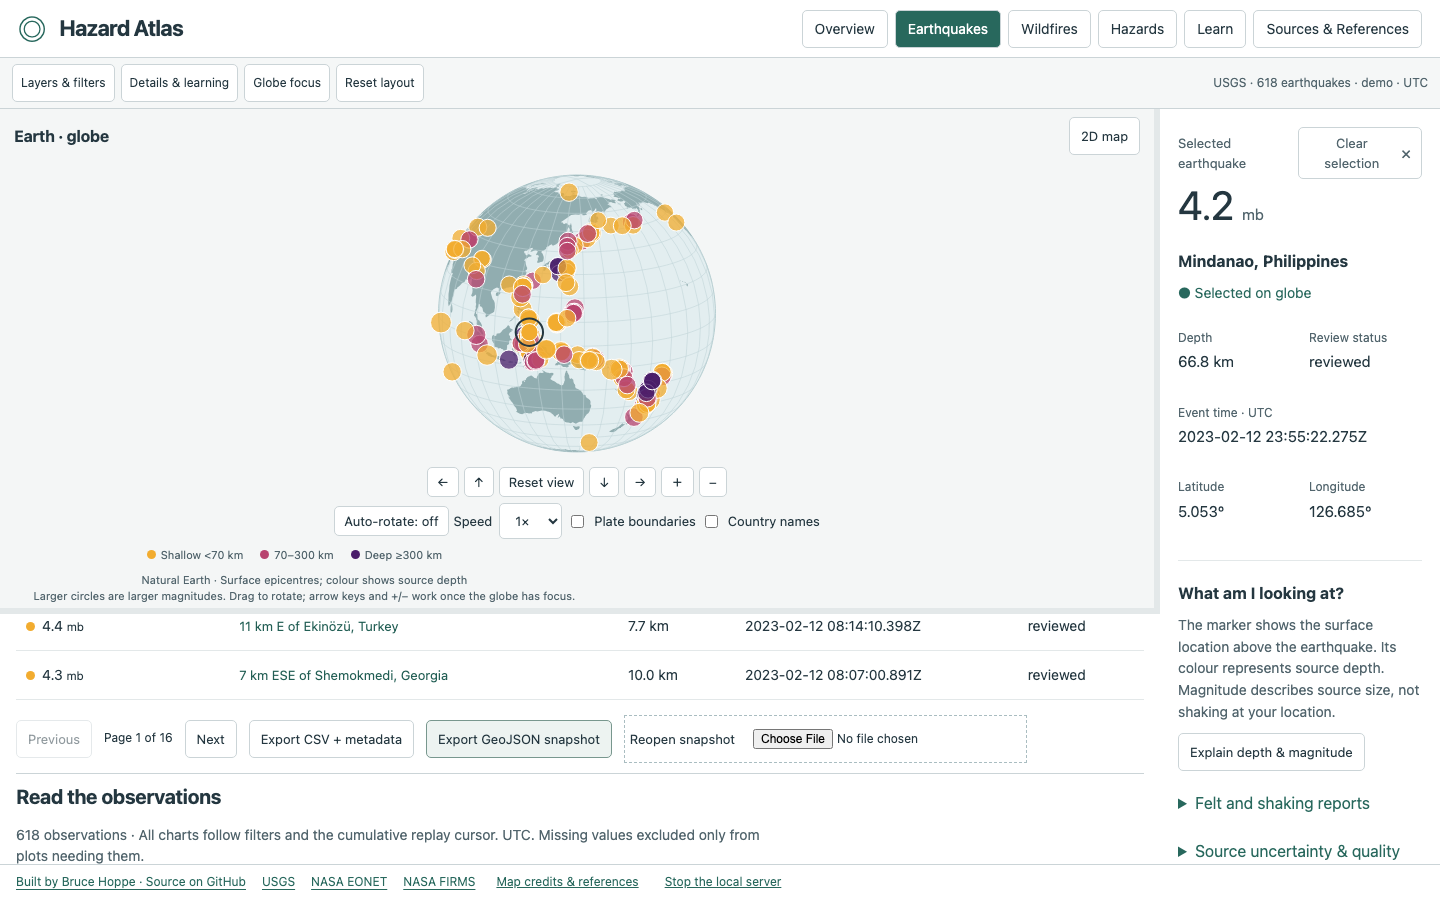
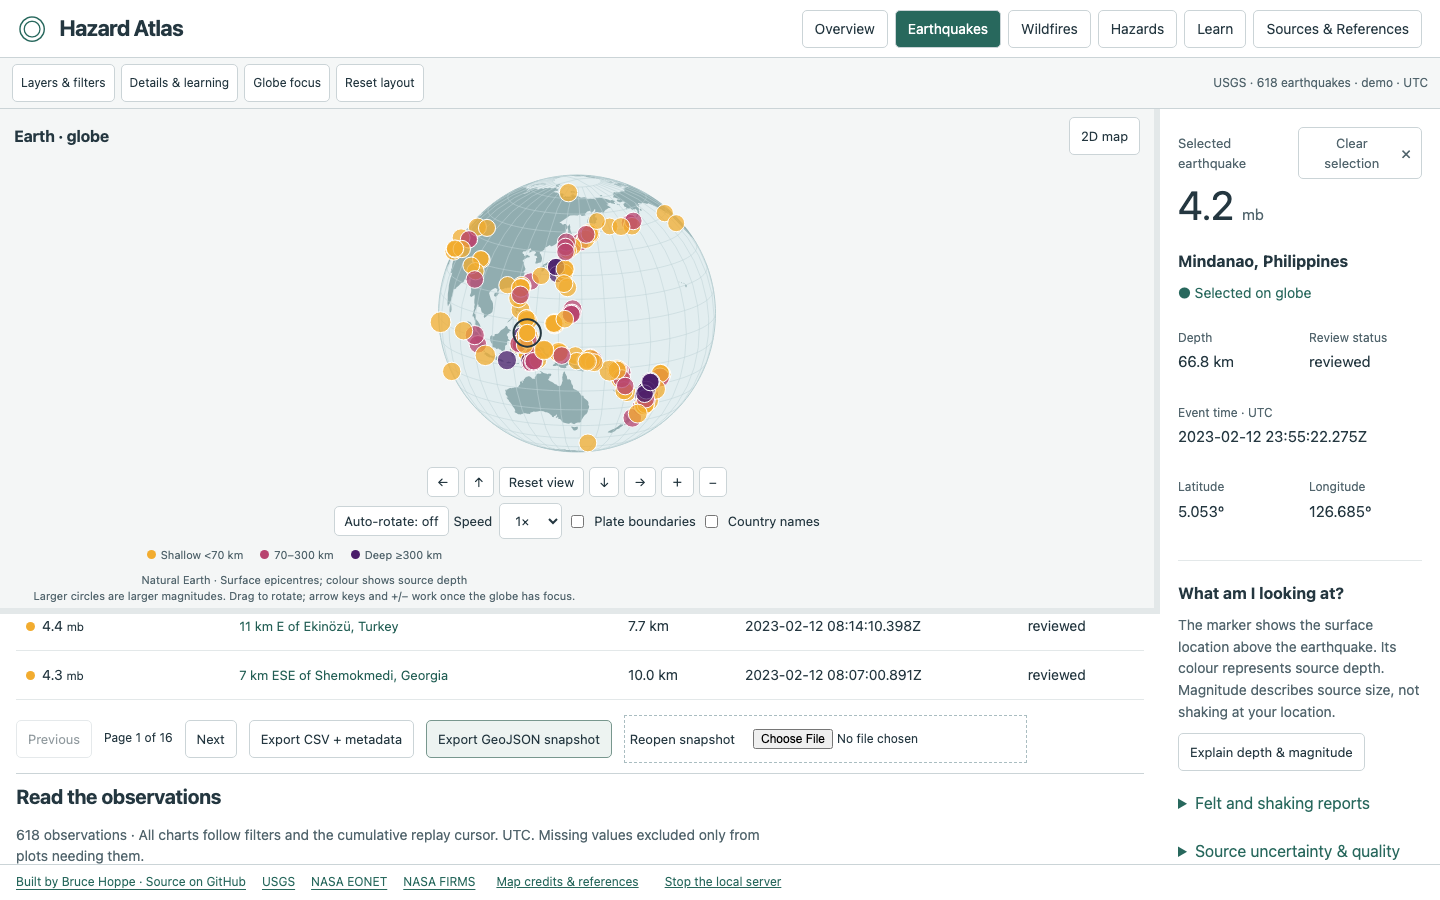
Release hazard atlas 0.4.0
Cuts the multi-hazard release: version bump, changelog and release notes,
and refreshed verification evidence. All three platform archives were
rebuilt from a clean release directory, so no earlier version remains.

Adds the Hazards route to the axe sweep in hazard-browser-check.mjs. The
new tab had never been scanned, since the route list predates it; it
reports zero violations, as do the three existing routes.

Brings docs/release-readiness.md current. It had been left at 0.3.3
through two releases, and its packaging row still cited 0.2.0. The new
0.4.0 section records what was actually measured rather than assumed,
including the GDACS response times that motivated the concurrent fetch,
and states plainly that the frequent "no assessment" severity is a
property of the upstream data: in the sampled window no open EONET event
in the covered categories cited GDACS as a source, so the specified join
matched nothing. No fuzzy matching is done to paper over that, because
assigning a severity its assessing body did not give a record would
misrepresent it.

Verified: go build/vet/test (incl. -race), tsc, 32 unit tests, the
480-frame animation regression, 15 hazards checks, 7 app checks, 9
browser checks with zero axe violations across all four routes, and the
10 consumer checks against a freshly extracted 0.4.0 archive reporting
version 0.4.0.

Claude-Session: https://claude.ai/code/session_01Pzjo216iRMbxULqf5ved4n

Changed region(s): [[0.3125, 0.2178, 0.4688, 0.4667]]

diff --git a/docs/release-readiness.md b/docs/release-readiness.md
@@ -1,6 +1,16 @@
-# Release readiness — Hazard Atlas 0.3.3 local candidate
+# Release readiness — Hazard Atlas 0.4.0 local candidate
 
-This is a functioning local release candidate. **It is not a claim that every publication gate in the much larger build specification is complete.** The earthquake baseline is preserved, and EONET, FIRMS and Natural Resources Canada CWFIS adapters are implemented.
+This is a functioning local release candidate. **It is not a claim that every publication gate in the much larger build specification is complete.** The earthquake baseline is preserved, and EONET, FIRMS, Natural Resources Canada CWFIS and GDACS adapters are implemented.
+
+## 0.4.0 verification (2026-09-07 UTC)
+
+- Production frontend build, TypeScript strict check, all 32 frontend tests, `go test ./...`, `go test -race ./internal/hazards/...` and `go vet ./...` passed.
+- The animation regression check passed 480 camera frames across globe/map views at DPR 1, 2 and 3. Seven application browser checks, nine Hazard Atlas browser checks and fifteen new Hazards-tab checks passed, the last covering glyph selection, cluster separation and regrouping, independent category/severity filtering, timeline scrubbing and a 1366×768 laptop viewport.
+- axe reports zero violations across Earthquakes, Wildfires, **Hazards** and Sources.
+- All three ZIPs passed integrity checks. Apple silicon's freshly extracted package reports version 0.4.0 and passed the ten consumer checks in [consumer-test-results.json](consumer-test-results.json), including backup/restore and restart.
+- Live provider behaviour was measured rather than assumed: GDACS responded in 6.9 s and 13.7 s and once exceeded the 25 s client timeout, so it is now fetched concurrently with EONET under a 15 s cap of its own and degrades to a partial result. Cold retrieval measured about 4 s.
+- **Severity coverage is a data limitation, not a defect.** In the sampled live window none of the 17 open EONET events in the covered categories cited GDACS as a source, so the specified join by GDACS event id matched nothing and every event read as unassessed. GDACS separately listed 16 Orange/Red events over the same window. No geographic or temporal fuzzy matching is performed, because attributing a severity that the assessing body did not assign to that record would misrepresent it.
+- Windows x64 and Intel macOS packages were cross-compiled and inspected; runtime execution on those platforms remains unverified. macOS app signatures are local ad-hoc signatures.
 
 ## 0.3.3 verification (2026-09-06 UTC)
 
@@ -15,12 +25,12 @@ This is a functioning local release candidate. **It is not a claim that every pu
 |---|---|
 | Baseline isolation | Original `/Users/bh/Developer/git_projects/earthquake-observatory` was clean at `600faf9`; Hazard Atlas uses port 8789, `HazardAtlas/hazard-atlas.db`, separate browser keys, and no source-project writes. See [baseline](baseline.md). |
 | Wildfire identity | `internal/wildfire` tests validate EONET IDs, product-specific FIRMS identities, repeated-row deduplication, null versus zero, malformed rows, provider status, polygon/date precision, and date-line bounds. |
-| Provider boundaries | EONET v3, FIRMS Area API and CWFIS downloads documentation checked 2026-09-06. FIRMS key is server-only, explicit regions are capped at 30° × 30° and 1–5 days, date-line queries split, CWFIS requests are one selected UTC day, bodies are bounded, redirects denied, and provider caps surface as partial states. |
+| Provider boundaries | EONET v3, FIRMS Area API and CWFIS downloads documentation checked 2026-09-06; GDACS event-list search checked 2026-09-07. FIRMS key is server-only, explicit regions are capped at 30° × 30° and 1–5 days, date-line queries split, CWFIS requests are one selected UTC day, bodies are bounded, redirects denied, and provider caps surface as partial states. Both hazard providers are proxied server-side, which the `connect-src 'self'` policy requires; the GDACS overlay carries its own 15 s deadline so it cannot delay the event feed. |
 | Frozen fixtures | EONET frozen records, 97 NOAA-20 VIIRS detections and 309 Canada CWFIS Fire M3 hotspots are embedded with URLs and retrieval metadata in `internal/wildfire/testdata/`. Live FIRMS keyed access remains configuration-dependent. |
 | Workspace | Browser render at 1440×900 shows full-width panels, separate hazard symbols/counts, keyboard/pointer panel resizing, canvas pixel resizing, timeline/list, source-state panel, and no document overflow. 1920×1080, 2560×1440, 1024px and 390px screenshots are saved under `docs/screenshots/`. |
 | Wildfire lessons | Three local activities use frozen records, each with three interactions, explanation, source link, reset, and return-to-view. No incident membership, spread boundary, burned area, casualty, containment, or severity score is inferred. |
 | Reproducibility | Complete snapshot export includes both provider datasets, view/query state, coverage, and SHA-256; import validates the hash/schema and does not call providers. Separate incident/detection exports include record type, units, source IDs and metadata. |
-| Accessibility | Focusable layer controls, splitters, list alternatives, reduced-motion handling, and source links are implemented. The Hazard Atlas browser suite reports zero axe violations across Earthquakes, Wildfires and Sources. |
+| Accessibility | Focusable layer controls, splitters, list alternatives, reduced-motion handling, and source links are implemented. The Hazard Atlas browser suite reports zero axe violations across Earthquakes, Wildfires, Hazards and Sources. |
 
 The original earthquake browser harness remains valid for the module at its new route. Hazard Atlas browser evidence is deliberately separate because the overview adds provider state, panels, lessons and mixed-hazard exports.
 
@@ -46,7 +56,7 @@ Host: macOS arm64, Go 1.27.1, Node 26.8.1, headless Chromium 153.0.8010.12. Veri
 | Live provider | Actual recent query returned 183 observations, complete and not stale, fetched 2026-09-06T00:51:30Z. Count is a snapshot, not a lasting current count. Live historical query passed separately. |
 | Performance | 20,000 synthetic events: filtering p95 ≈0.85 ms in Node (100 measured iterations). Chromium rotation 38.0 fps, longest frame 33 ms; browser filter interactions 145–228 ms (mean 170) including Playwright overhead. Heap after ten view switches 225 MB (unforced GC, not a leak determination). Measured on an otherwise idle machine after the component split; a run competing with a release build reported 33 fps and a 193 ms mean, so treat these as indicative rather than absolute. Raw measurements in `extended-test-results.json`. |
 | Dependency vulnerabilities | `npm audit` reports zero; `go run golang.org/x/vuln/cmd/govulncheck@latest ./...` reports no vulnerabilities. Scan results are time-specific. |
-| Packaging | Hazard Atlas 0.2.0 macOS arm64, macOS amd64 and Windows amd64 cross-builds succeeded. Extracted macOS arm64 archive passed startup, embedded assets, demo, running backup, restart, clean-directory restore and integrity checks through `scripts/consumer-check.mjs`; see `consumer-test-results.json`. Native macOS Launch Services launch, live-mode configuration and ad-hoc signature verification remain local checks. Windows and Intel execution remain unverified. |
+| Packaging | Hazard Atlas 0.4.0 macOS arm64, macOS amd64 and Windows amd64 cross-builds succeeded. Extracted macOS arm64 archive passed startup, embedded assets, demo, running backup, restart, clean-directory restore and integrity checks through `scripts/consumer-check.mjs`; see `consumer-test-results.json`. Native macOS Launch Services launch, live-mode configuration and ad-hoc signature verification remain local checks. Windows and Intel execution remain unverified. |
 | Upstream data quality | 125 of the 618 bundled place descriptions carry a question mark where a non-Latin-1 letter belongs (`Nurda??`, `Pazarc?k`). Verified as upstream: a fresh USGS query returns records identical to the bundled snapshot, differing only in the response's own `generated` timestamp. Descriptions are reproduced as supplied rather than corrected, because editing them would alter an observational record; see `sources.md`. Coordinates, magnitudes, depths and times are unaffected. |
 | Attribution/license | Credit `Built by Bruce Hoppe · Source on GitHub` links to the repository in the production footer and About panel, with no address published in the interface; browser check asserts footer visibility. README, QUICKSTART, MIT LICENSE and third-party notices included in archives. |
 | CI | Workflow configured for Linux/macOS/Windows; no hosted CI run is claimed. |

diff --git a/CHANGELOG.md b/CHANGELOG.md
@@ -1,5 +1,16 @@
 # Changelog
 
+## 0.4.0 (2026-09-07 UTC)
+
+- New **Hazards** tab covering every NASA EONET category except wildfires and earthquakes, which keep their existing pipelines: EONET's own earthquakes category is discarded server-side so USGS stays the sole source of record.
+- Category is encoded by glyph shape and severity by colour, and the two are independent — filtering one never changes which shapes appear. A glyph legend documents all thirteen categories and the four severity states.
+- GDACS severity is joined onto EONET events by the event id each record already carries in its own GDACS source URL, so a matched event renders as one marker rather than two. An unmatched event stays "no assessment" and is never defaulted to green; absence of an assessment is not an assessment of low severity.
+- EONET and GDACS are fetched concurrently with a 15-second cap on the severity overlay alone. GDACS routinely takes 7–25 seconds and sometimes exceeds the client timeout, so a slow overlay now degrades to a partial result with an explanation instead of delaying the events. Cold retrieval dropped from over 25 seconds to about 4.
+- Category, severity and timeline filtering all run against the already-fetched snapshot, with no refetch. Multi-point events (a cyclone track) animate along the scrubber, drawing the passed points as a faded trail.
+- Overlapping markers bucket to a grid instead of stacking invisibly; a bucket of more than one draws as a count badge in its worst contained severity, and clicking separates it into a ring.
+- Fixed a country-label regression from 0.3.4: the canvas began taking an inline width that overrides the stylesheet, so a pane that had been hidden stayed collapsed to zero width until the resize observer caught up.
+- Fixed `scripts/hazard-browser-check.mjs`, which had been failing since 0.3.4 because the added marker canvas made its `canvas` selector ambiguous.
+
 ## 0.3.5 (2026-09-06 UTC)
 
 - Restored device-pixel snapping for wildfire incident and detection markers, which a prior stability refactor had accidentally dropped: their straight-edged triangle/square icons were drifting subpixel and shimmering under rotation, and jittering across the detection-cluster grid in a way that looked like inconsistent rotation.

diff --git a/RELEASE_NOTES.md b/RELEASE_NOTES.md
@@ -1,3 +1,13 @@
+# 0.4.0 — local release
+
+Adds a Hazards tab covering every NASA EONET category except wildfires and earthquakes, which keep the pipelines they already had — EONET's own earthquakes category is dropped so USGS remains the source of record. Each category has its own outline glyph and each event a severity colour drawn from GDACS, and the two encodings stay independent: filtering by severity never changes which shapes appear. A legend in the panel documents all thirteen glyphs and the four severity states.
+
+GDACS severity is attached to an EONET event through the event id EONET already publishes in its own GDACS source link, so a shared event draws one marker rather than two. Events GDACS has not assessed read as "no assessment" rather than green, since no assessment is not the same as a low one. In practice EONET frequently cites other upstreams for its open events, so expect that state to be common.
+
+Category, severity and timeline filtering happen entirely in the browser against data already retrieved. Scrubbing the timeline animates multi-point events such as cyclone tracks, and markers that would land on top of one another group into a count badge that separates on click.
+
+Also corrects two defects introduced in 0.3.4: a pane that had been hidden could show a zero-width globe until its resize observer caught up, and the bundled browser regression check had been failing against the second marker canvas.
+
 # 0.3.5 — local release
 
 Wildfire incident and detection markers no longer shimmer or bounce while the globe rotates, and no longer flicker between clustered and individual as they cross a detection-cluster boundary. A stability refactor earlier in the 0.3.x series had accidentally dropped their device-pixel snapping; it's restored here at the same quarter-device-pixel grid used for country labels.
